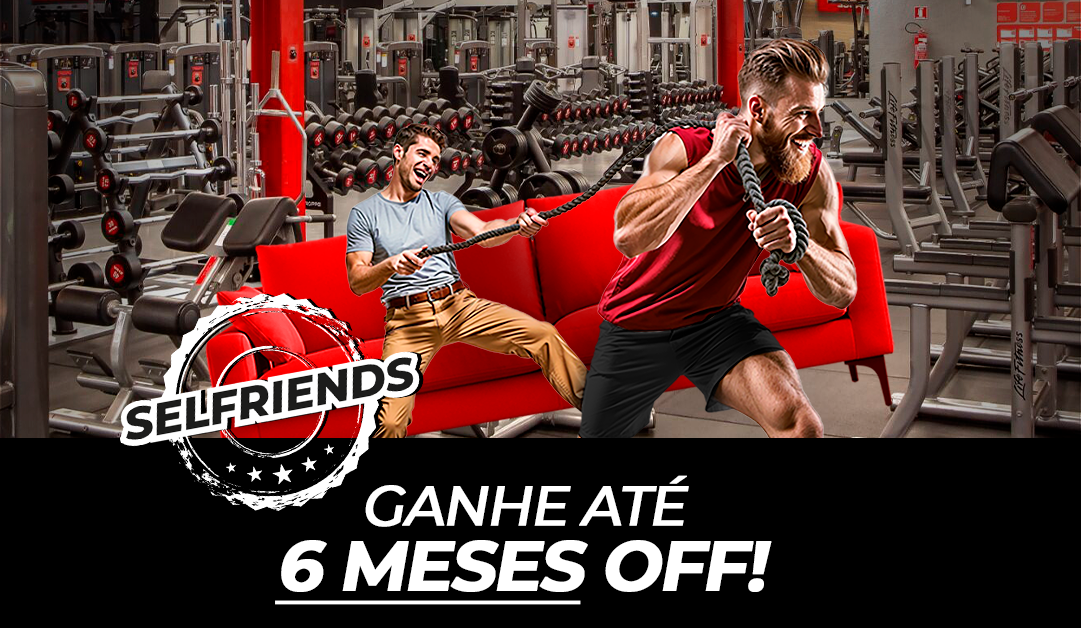
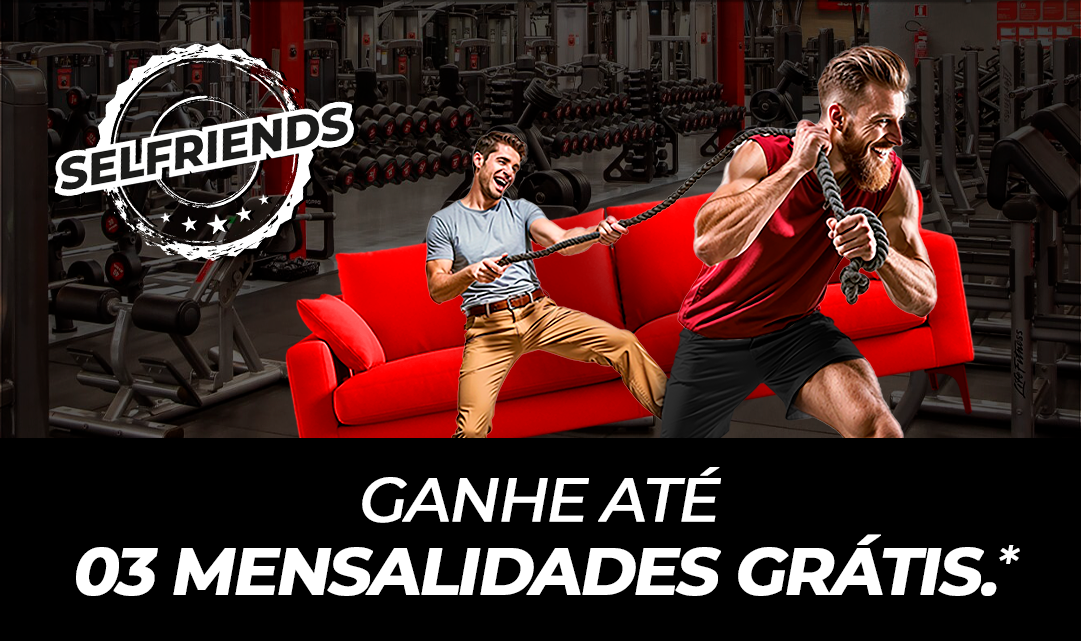
new fixs

diff --git a/pages/cupons.vue b/pages/cupons.vue
@@ -1,70 +1,133 @@
 <script setup>
-const full = ref(false)
+import { ref, onMounted } from 'vue'
+
+const isShareSupported = ref(false)
+
+onMounted(() => {
+  isShareSupported.value = 'share' in navigator
+})
+
+const shareContent = async () => {
+  if (isShareSupported.value) {
+    try {
+      await navigator.share({
+        title: 'Título do Conteúdo',
+        text: 'Descrição do conteúdo que será compartilhado.',
+        url: window.location.href,
+      })
+      console.log('Conteúdo compartilhado com sucesso!')
+    } catch (error) {
+      console.error('Erro ao compartilhar:', error)
+    }
+  } else {
+    alert('O compartilhamento não é suportado neste dispositivo.')
+  }
+}
 </script>
 
 <template>
-    <img class="w-full" src="/img/banner4.png" alt="Selfriends">
-    <div class="bg-white py-8">
+    <img class="w-full" src="/img/banner2.png" alt="Selfriends">
+    <div class="bg-white pt-8 pb-10">
         <Container>
             <div class="flex flex-col items-center">
                 <div class="flex items-center gap-3">
-                    <img class="max-w-[40px] min-w-[40px] h-10 object-cover rounded-full" src="/img/user.png" alt="Cliente Selfit">
-                    <p class="text-[#808080] text-base leading-[100%] font-bold">
+                    <img class="max-w-[40px] min-w-[40px] h-10 object-cover rounded-full" src="/img/user.svg" alt="Cliente Selfit">
+                    <p class="text-black text-base leading-[100%] font-bold">
                         Cliente Selfit
-                        <small class="text-[11px] mt-1 leading-[100%] font-medium block text-[#808080]">cliente@gmail.com</small>
+                        <small class="text-xs mt-1.5 leading-[100%] font-medium block text-[#808080]">cliente@gmail.com</small>
                     </p>
                 </div>
-                <template v-if="full">
-                    <h1 class="font-extrabold text-[27px] text-center uppercase italic leading-[100%] text-black mb-1 mt-6">Parabéns!</h1>
-                    <p class="text-center text-sm font-normal text-black mb-6">Você utilizou todos os cupons disponíveis e ganhou 3 mensalidades gratuitas</p>
-                </template>
-                <template v-else>
-                    <h3 class="mt-6 border-b border-[#e0e0e0] pb-6 mb-6 text-lg leading-[120%] font-medium text-center text-[#5F5F5F]">Esses são os cupons ativos. <br /> Compartilhe e ganhe mais descontos.</h3>
-                    <p class="text-center text-sm font-normal text-black mb-6">Até o momento, você utilizou <strong class="text-black">02</strong> dos seus 12 cupons disponíveis. <br /> Compartilhe com mais amigos para ganhar até <strong class="text-black">3 mensalidades gratuitas</strong></p>
-                </template>
-                <ul class="w-full mb-6 flex flex-col gap-4">
+                <h3 class="w-full mt-6 border-b border-[#e0e0e0] pb-6 mb-6 text-lg leading-[120%] font-medium text-center text-[#5F5F5F]">Esses são os cupons de uso único. <br /> Compartilhe e ganhe mensalidade.</h3>
+                <h4 class="text-center text-black text-xl leading-[110%] italic uppercase font-extrabold mb-2">Você já ganhou <strong class="text-black">X</strong> mensalidades</h4>
+                <p class="text-center text-sm font-normal text-black mb-6">Até o momento, você utilizou <strong class="text-black">02</strong> dos seus 12 cupons disponíveis. <br /> Compartilhe com mais amigos para ganhar até <strong class="text-black">3 mensalidades gratuitas</strong></p>
+                <ul class="w-full mb-8 flex flex-col gap-4">
                     <li
                         v-for="i, index in [
                             {
                                 voucher: 'MGM294UJI298',
-                                status: 'Utilizado',
-                                names: 'Fernanda'
+                                status: 'Disponível',
+                                name: 'Henrique'
                             },
                             {
                                 voucher: 'MGM294UJI298',
-                                status: 'Disponível',
-                                names: 'Henrique'
+                                status: 'Utilizado',
+                                name: 'Fernanda'
+                            },
+                            {
+                                voucher: 'MGM294UJI298',
+                                status: 'Utilizado',
+                                name: 'Tércio'
                             }
                         ]"
                         :key="index"
-                        class="grid grid-cols-2 gap-y-2 pb-4 border-b border-[#F1F1F1]"
+                        class="flex items-center justify-between pb-4 border-b border-[#dbdbdb]"
                     >
-                        <div>
-                            <h6 class="text-center text-[#ACACAC] font-normal text-xs uppercase">Cupom</h6>
-                            <p class="text-center font-bold text-sm text-black">{{ i.voucher }}</p>
+                        <div class="min-w-[120px] max-w-[120px]">
+                            <h6 class="text-[#ACACAC] font-normal text-[11px] uppercase">Cupom</h6>
+                            <p :class="{ '!text-[#ACACAC]': i.status === 'Utilizado' }" class="font-bold text-sm text-black">{{ i.voucher }}</p>
                         </div>
-                        <div>
-                            <h6 class="text-center text-[#ACACAC] font-normal text-xs uppercase">Status</h6>
+                        <div class="min-w-[80px] max-w-[80px]">
+                            <h6 class="text-[#ACACAC] font-normal text-[11px] uppercase">Status</h6>
                             <p
                                 :class="{ '!text-red': i.status === 'Disponível' }"
-                                class="text-center font-bold text-sm text-[#019b01]"
+                                class="font-bold text-sm text-[#019b01]"
                             >
                                 {{ i.status }}
                             </p>
                         </div>
-                        <div>
-                            <h6 class="text-center text-[#ACACAC] font-normal text-xs uppercase">Utilizador por</h6>
-                            <p class="text-center font-bold text-sm text-black">{{ i.names }}</p>
+                        <div
+                            v-if="i.status === 'Utilizado'"
+                            class="min-w-[100px] max-w-[100px] w-full"
+                        >
+                            <h6 class="text-[#ACACAC] font-normal text-[11px] uppercase">Utilizador</h6>
+                            <p class="truncate font-bold text-sm text-black">{{ i.name }}</p>
                         </div>
-                        <a class="flex justify-center items-center gap-2 text-sm uppercase font-bold underline text-black" :href="`https://wa.me/?text=Selfit%20Academias%20%7C%20Tire%20sua%20galera%20do%20sof%C3%A1%0AMeus%20cupons%20foram%20liberados%21%20Corra%20e%20aproveite%20sua%20primeira%20mensalidade%20por%20R%24%2029%2C90%21%20Use%20meu%20cupom%20${i.voucher}%0Ahttps%3A%2F%2Fselfriends.com.br`" target="_blank">
-                            Compartilhe
-                            <img src="/img/whatsapp.svg" alt="WhatsApp">
-                        </a>
+                        <div
+                            v-if="i.status === 'Disponível'"
+                            class="min-w-[100px] max-w-[100px] w-full flex items-center gap-2"
+                        >
+                            <a
+                                :href="`https://wa.me/?text=Selfit%20Academias%20%7C%20Tire%20sua%20galera%20do%20sof%C3%A1%0AMeus%20cupons%20foram%20liberados%21%20Corra%20e%20aproveite%20sua%20primeira%20mensalidade%20por%20R%24%2029%2C90%21%20Use%20meu%20cupom%20${i.voucher}%0Ahttps%3A%2F%2Fselfriends.com.br`"
+                                target="_blank"
+                            >
+                                <img src="/img/whatsapp.svg" alt="WhatsApp">
+                            </a>
+                            <button
+                                v-for="i, index in [
+                                    'instagram',
+                                    'facebook'
+                                ]"
+                                :key="index"
+                                type="button"
+                                @click="shareContent"
+                            >
+                                <img :src="`/img/${i}.svg`" :alt="i">
+                            </button>
+                        </div>
                     </li>
                 </ul>
-                <Button>Compartilhar</Button>
-                <NuxtLink to="/" class="inline-block mt-4 font-bold italic text-base text-black uppercase">Sair</NuxtLink>
-                <NuxtLink href="/Regulamento.pdf" target="_blank" class="text-center mt-6 mb-6 text-xs font-normal leading-[130%] underline text-black">Consulte o regulamento e as condições da campanha clicando aqui.</NuxtLink>
+                <NuxtLink to="/" class="underline inline-block font-bold italic text-base text-black uppercase">Sair</NuxtLink>
+            </div>
+        </Container>
+    </div>
+    <div class="bg-red pt-12">
+        <Container>
+            <div class="flex flex-col items-center">
+                <ul class="flex flex-col gap-3">
+                    <li class="flex items-start gap-2">
+                        <strong class="text-black">1.</strong>
+                        <p class="font-medium text-sm uppercase italic">A cada 4 cupons utilizados <span class="underline">você ganha uma mensalidade</span>.</p>
+                    </li>
+                    <li class="flex items-start gap-2">
+                        <strong class="text-black">2.</strong>
+                        <p class="font-medium text-sm uppercase italic">Cada cupom da acesso a oferta exclusiva do plano plus de <span class="underline">29,90</span> na primeira mensalidade.</p>
+                    </li>
+                    <li class="flex items-start gap-2">
+                        <strong class="text-black">3.</strong>
+                        <p class="font-medium text-sm uppercase italic">Compartilhe os cupons quantas vezes quiser.</p>
+                    </li>
+                </ul>
+                <NuxtLink href="/Regulamento.pdf" target="_blank" class="text-center mt-8 text-xs font-normal leading-[130%]">Consulte o regulamento.</NuxtLink>
             </div>
         </Container>
     </div>

diff --git a/pages/index.vue b/pages/index.vue
@@ -1,18 +1,27 @@
+<script setup>
+
+</script>
+
 <template>
-    <img class="w-full" src="/img/banner1.png" alt="Chame seus amigos e ganhe benefícios. Tire sua galera do sofá.">
-    <Container>
-        <div class="flex flex-col items-center">
-            <h1 class="text-center uppercase text-lg font-medium italic leading-[130%]">Traga seus amigos <br /> para <strong class="font-bold">Selfit e ganhe até</strong></h1>
-            <h1 class="font-extrabold text-[27px] text-center uppercase italic leading-[100%] mb-4">03 mensalidades <br /> grátis.*</h1>
-            <form class="w-full flex flex-col items-center" action="/chame-seus-amigos" method="POST">
-                <input required class="text-black block w-full h-10 mb-3 bg-white px-4 font-semibold placeholder:font-normal uppercase placeholder:tracking-[2px] text-center placeholder:text-[#999999]" type="email" placeholder="E-mail">
-                <input required class="text-black block w-full h-10 mb-3 bg-white px-4 font-semibold placeholder:font-normal uppercase placeholder:tracking-[2px] text-center placeholder:text-[#999999]" type="password" placeholder="Senha">
-                <Button submit>Partiu desconto</Button>
+    <img class="w-full" src="/img/banner2.png" alt="Ganhe até 03 mensalidades grátis.*">
+    <div class="bg-white pb-12">
+        <Container>
+            <p class="text-black text-center font-medium text-base pt-8 pb-6 leading-[130%]">Acesse utilizando os mesmos dados para entrar na Selfit.</p>
+            <form class="flex flex-col items-center" action="/cupons" method="POST">
+                <input class="block w-full bg-[#f2f2f2] placeholder:opacity-100 placeholder:text-[#999999] placeholder:uppercase placeholder:font-medium font-semibold text-lg text-black text-center mb-3 py-2 placeholder:tracking-[1px] px-4" type="email" placeholder="E-mail" required>
+                <input class="block w-full bg-[#f2f2f2] placeholder:opacity-100 placeholder:text-[#999999] placeholder:uppercase placeholder:font-medium font-semibold text-lg text-black text-center py-2 placeholder:tracking-[1px] px-4" type="password" placeholder="Senha" required>
+                <button class="mt-5 w-full flex items-center gap-6 text-left border-[#e0e0e0] py-6 border-t border-b" type="submit">
+                    <img class="w-8" src="/img/logo-red.svg" alt="Selfit">
+                    <span class="block flex-[2] font-medium text-lg text-black">Entrar com Selfit</span>
+                    <img class="w-4" src="/img/arrow.svg" alt="Seta">
+                </button>
+                <NuxtLink class="underline font-medium text-sm inline-block mt-4 text-black" to="https://admin.selfitacademias.com.br/selfit/0/page/landing-page/login" target="_blank">Esqueci Minha Senha</NuxtLink>
             </form>
-            <NuxtLink class="inline-block mt-6 underline font-medium text-xs" href="https://admin.selfitacademias.com.br/selfit/0/page/landing-page/login" target="_blank">Esqueci Minha Senha</NuxtLink>
-            <p class="mt-10 italic uppercase text-center font-medium text-lg leading-[23px]">Quanto mais <strong>você <span class="underline">indicar</span>,</strong> <br /> mais desconto <strong>pode <span class="underline">ganhar</span>.</strong></p>
-            <NuxtLink href="/Regulamento.pdf" target="_blank" class="text-center mt-4 mb-6 text-xs font-normal leading-[100%] underline">*Para mais informações consulte o regulamento.</NuxtLink>
-        </div>
-    </Container>
+            <p class="text-black mt-16 italic uppercase text-center font-medium text-lg leading-[23px]">Quanto mais <strong class="text-black">você <span class="underline text-black">indicar</span>,</strong> <br /> mais desconto <strong class="text-black">pode <span class="underline text-black">ganhar</span>.</strong></p>
+            <div class="mt-10 flex justify-center">
+                <NuxtLink href="/Regulamento.pdf" target="_blank" class="inline-block text-center text-xs font-normal text-black">Consulte o regulamento.</NuxtLink>
+            </div>
+        </Container>
+    </div>
     <Footer />
 </template>
